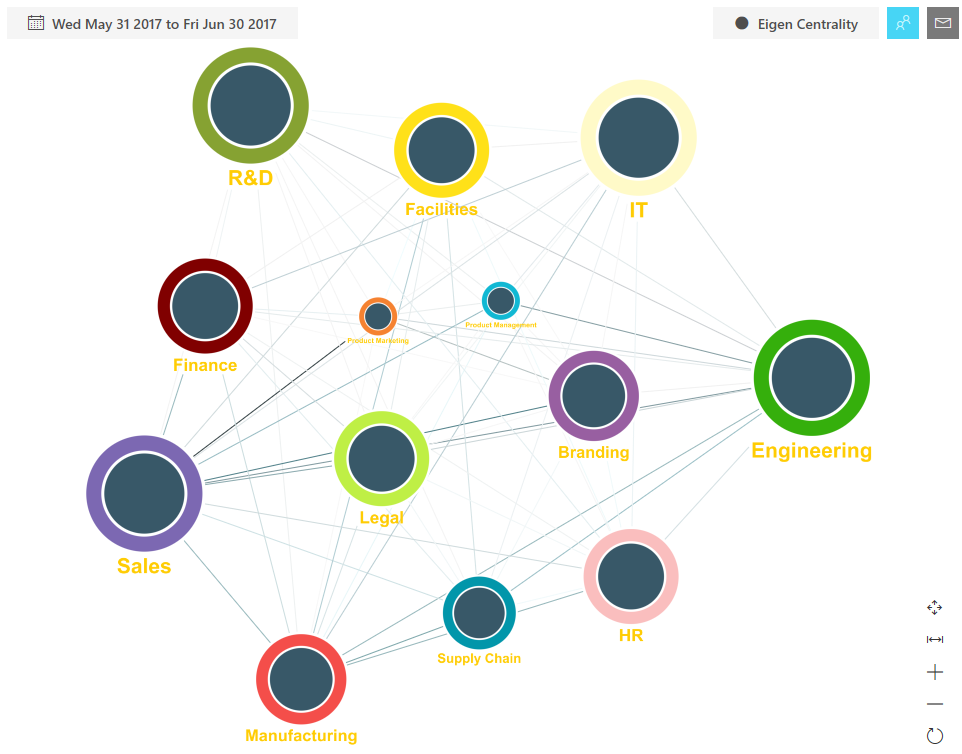
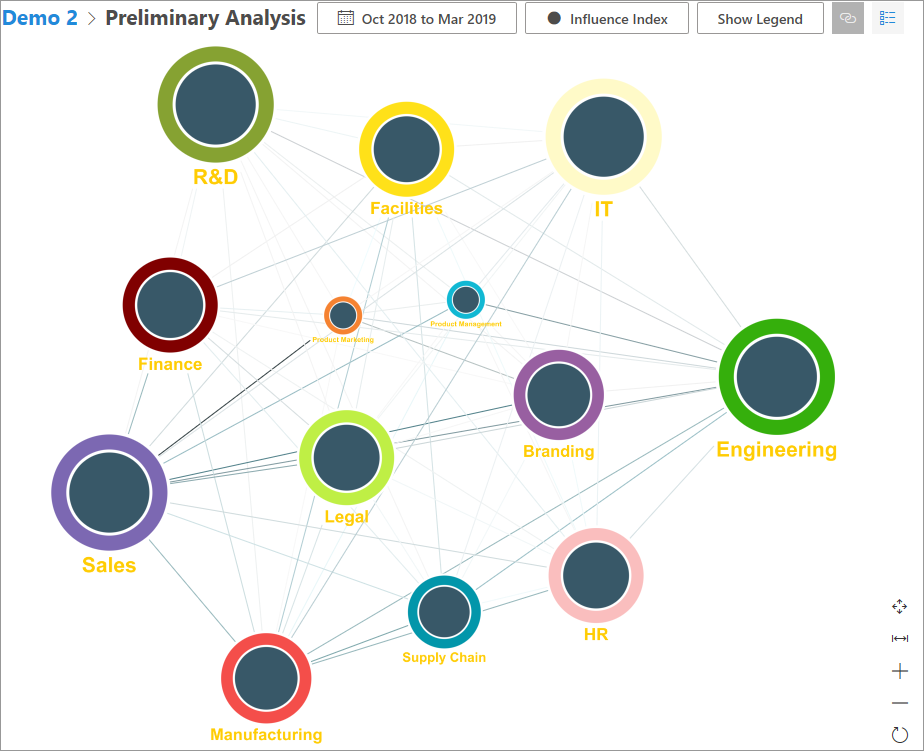
ONA AzT updates
per Glen's review edits

diff --git a/WorkplaceAnalytics/azure-templates/organization-network-analysis.md b/WorkplaceAnalytics/azure-templates/organization-network-analysis.md
@@ -41,7 +41,13 @@ To focus your analysis on specific subgroups or compare graphs from different ti
    * **Min # of interactions**: Select the minimum number of interactions between the selected groups or people.
 
 6. Optionally, in **Exclusions**, enter one or more terms separated by a comma to exclude meetings with these keywords in the meeting subject line from this analysis.
-7. Select **Submit**. Based on the data size, it might take anywhere from a few minutes up to a few hours to successfully create the dataset. <!-- Some metric options are unavailable until you do the following steps to **Define Analysis** for data subsets.-->
+7. Select **Submit**. Based on the data size, it might take anywhere from a few minutes up to a few hours to successfully create the dataset.
+8. After the analysis successfully loads, select the dataset from the list, and then select **Preliminary analysis**.
+9. In **Define Graph Settings**, either select filters for the graph, or select no filters to render a graph of all the data unfiltered, and then select **Render Graph**.
+
+   ![Add New Analysis](./images/ona-render-graph-2.png)
+   
+10. To save the current graph for future analysis, select **Save**, enter a name, and then select **Save Graph**.<!-- Some metric options are unavailable until you do the following steps to **Define Analysis** for data subsets.-->
  <!-- 
 ## To define a subset dataset and graph analysis
 
@@ -65,7 +71,7 @@ Analysis of a subset (child) dataset and graph enables you to compare or focus y
 
 1. After the analysis successfully loads, select the dataset from the list, and then at top right, select **Load Saved Graph**.
 2. Select the name of the graph analysis from the list. If no analysis has been created, the list will be empty.
-3. At top left of the graph, you can select a new start and end date for the time range to analyze, and then select **Apply** to update the graph view.
+3. At top of the graph, you can select a new start and end date for the time range to analyze, and then select **Apply** to update the graph view.
 
    ![ONA date range](./images/ona-date-range.png)
 
@@ -73,21 +79,21 @@ Analysis of a subset (child) dataset and graph enables you to compare or focus y
 
    Option |Name |Description
    ------------|--------------|------------
-   ![ONA no measure](./images/ona-no-measure.png)| No Measure | Change how the data is measured and shown in the graph based on the Node Measures you select.
+   ![ONA no measure](./images/ona-no-measure.png)| No Measure | Changes how the data is measured and shown in the graph based on the Node Measures you select.
    ![ONA legend](./images/ona-legend.png)| Show or Hide Legend  | Opens or closes the legend of assigned node colors for the HR attribute shown in the graph.
    ![ONA link color](./images/ona-link-color.png) | Link Color |Select a different color for the line links shown in the graph.
    ![ONA dataset parameters](./images/ona-dataset-parameters.png) | Dataset Parameters |Choose to view the network parameter details that you set for the selected dataset.
-   ![ONA network view](./images/ona-network-icons-1.png)| Network View  | Change how the graph shows the network, which you can view in either the **Force-directed**, **Lens**, or **Structural** layout.
+   ![ONA network view](./images/ona-network-icons-2.png)| Network View  | Changes how the graph shows the network, which you can view in either the **Force-directed** or **Organic** layout.
    ![ONA combined view](./images/ona-combined-view-icon.png) |Combined View | Change the graph view to Combined View, which prompts you to select an HR attribute meeting metric to display the nodes for , such as FunctionType.
-   ![OnA change color nodes](./images/ona-color-icon.png) | Change Node Colors | You can select to change the color of any of the nodes shown in the graph.
-   ![ONA change settings](./images/ona-settings.png) | Change Settings |Scales the thickness or color darkness of the link lines. You can also use this to turn node labels and tool tips on or off.
-   ![ONA filter](./images/ona-filter-icon.png) | Filter by HR attributes |Change the filters selected for the rendered graph.
+   ![OnA change color nodes](./images/ona-color-icon.png) | Changes Node Colors | You can select to change the color of any of the nodes shown in the graph.
+   ![ONA change settings](./images/ona-settings.png) | Changes Settings |Scales the thickness or color darkness of the link lines. You can also use this to turn node labels and tool tips on or off.
+   ![ONA filter](./images/ona-filter-icon.png) | Filter by HR attributes |Changes the filters that show in the rendered graph. This doesn't change the dataset filters or recalculate the dataset metrics. If you want to calculate new metrics for a subset, you must create a new dataset.
    ![ONA save graph](./images/ona-save.png) | Save Graph |Choose to save this graph as shown in the template to load and view later.
 
 ## To view a saved graph
 
-1. On the **Organizational Network Analysis** page, select the name of the analysis in the table.
-2. At the top right of the **Graph Analysis** page, select **Load Saved Graph**.
+1. On the **Organizational Network Analysis** page, select the name of the dataset in the table, and then select the name of the graph in the table.
+2. At the top right of **Define Graph Settings**, select **Load Saved Graph**.
 3. Select the name of the graph that you want to view. <!-- To view a subset dataset graph, select the **Refine Subset Categorization** icon next to the dataset name, and then select the subset's name to view it.--> If no analysis has been created, the subset list will be empty.<!--    ![Refine Subset Categorization icon](./images/ona-subset-categorization.png)-->
 4. Additional options on the analysis pages:
 
@@ -96,17 +102,17 @@ Analysis of a subset (child) dataset and graph enables you to compare or focus y
    * Select a table column heading, such as Name or Submitted, to sort by it.
    * Select the **Dataset Parameters** icon next to the name to view them for the analysis in that row.
    * Select the **Delete Analysis** (trashcan) icon to delete the analysis from the list.
-   * For subsets, select the **Download Dataset** icon, to download an .xlsx file with the person and group metrics in the saved subgroup graph analysis, which are based on the selected date range and other options. For example, Interconnectedness will have multiple values based on the attributes selected for the graph.
+   * Select the **Download Dataset** icon to download an .xlsx file with the person and group metrics in the saved subgroup graph analysis, which are based on the selected date range and other options. For example, Interconnectedness will have multiple values based on the attributes selected for the graph.
 
 ## Node Measures
 
-You can apply the following node sizing options to change how the data is measured and shown in the graph.
+You can apply the following node sizing options to change how the data is measured and shown in the graph. The following graphic shows the measures available for Combined View.
 
-![Organization Network Analysis measures](./images/ona-measures.png)
-<!-- For Subset Categorizations, you must select the applicable metrics when creating the analysis to see these measure options in the graph. ![Organization Network Analysis Subset measures](./images/ona-subset-measures.png)-->
+![Organization Network Analysis measures](./images/ona-combined-view-measures.png)
+<!-- For Subset Categorizations, you must select the applicable metrics when creating the analysis to see these measure options in the graph. ![Organization Network Analysis Subset measures](./images/ona-subset-measures.png)
 ### Betweenness
 
-Betweenness measures how much of a key connector a person or group (node) is in the network. This is calculated by finding the shortest paths between all nodes to all other nodes in the network and finding the number of times a node appears on the shortest path. The more times a node appears on the shortest path between other nodes, the more of a key connector that node is and therefore the higher the node’s betweenness score is.
+Betweenness measures how much of a key connector a person or group (node) is in the network. This is calculated by finding the shortest paths between all nodes to all other nodes in the network and finding the number of times a node appears on the shortest path. The more times a node appears on the shortest path between other nodes, the more of a key connector that node is and therefore the higher the node’s betweenness score is.-->
 
 ### Boundary Spanning
 
@@ -116,17 +122,13 @@ Betweenness measures how much of a key connector a person or group (node) is in 
 
 <!--  This option is only available in Subset Categorization analysis. -->Indicates potential control over the flow of information and points of failure or overload. High values can indicate gatekeepers, liaisons, or change agents. This role can be advantageous or stressful.
 
-### Closeness
-
-Closeness measures the closeness between nodes in a network, based on their ability to reach them. It then calculates each node’s shortest path to every other node, then assigns each node a score based on the sum of all the paths. Nodes with a high closeness value have a lower distance to all other nodes and therefore are efficient broadcasters of information.
-
 ### Degrees
 
 Degrees measures the highest number of links to other nodes within the network. Nodes with a high degree of links are those people or groups who have the best connections to others in the network. These people or groups can be key influencers or might just be strategically important for communication.
 
 ### Density
 
-Density measures the number of actual connections out of the number of possible connections within a network or subgroup, which is a table view. Higher density indicates higher levels of connectivity. Large groups tend to have small values since it’s much harder for everyone to connect with everyone else, so be careful comparing across groups. Dense groups indicate cohesion between members.
+This option is only available in the Network View. Density measures the number of actual connections out of the number of possible connections within a network or subgroup in a table view. Higher density indicates higher levels of connectivity. Large groups tend to have small values since it’s more difficult for everyone to connect with everyone else, so be cautious when comparing across groups. Dense groups indicate cohesion between members.
 
 As shown in the following graphic, the table depicts the density score within and across the respective groups, where:
 
@@ -134,32 +136,37 @@ As shown in the following graphic, the table depicts the density score within an
 
 ![Density table](./images/ona-density-table.png)
 
-### Eigen Centrality
+<!--### Eigen Centrality
 
 Eigen Centrality is a measure of influence that considers the number of links each person or group (node) has and the number of links their connections have, and so on throughout the network. The larger nodes represent the people or groups with high centrality and can be key influencers in their network.
 
 As shown in the following graphic, Engineering, R&D, and Sales are key influencers that connect all the other groups.
 
 ![Eigen Centrality](./images/ona-eigen.png)
-
+-->
 ### Influence Index
 
-<!--  This option is only available in Subset Categorization analysis. -->Indicates how much influence an individual has in the network. Influence occurs from providing information to people who also provide information to many others, and so on. High values suggest the central individual’s perspective will flow through the organization with efficiency.
+<!--  This option is only available in Subset Categorization analysis. -->Represents the number of links each person or group (node) has and the number of links their connections have, and so on throughout the network. The larger nodes represent the people or groups with high centrality and therefore, are considered key influencers in their network. Influence occurs from these influencers sharing information to their network, who then forward it to theirs, and so on. High values suggest the central person's or group’s perspective will flow through the organization with efficiency.
+
+As shown in the following graphic, Engineering, R&D, and Sales are key influencers that connect all the other groups.
+
+![Eigen Centrality](./images/ona-eigen.png)
 
 ### Interconnectedness
 
 This option is only available in Node View. Interconnectedness is a measure of how diverse a node’s connections are. The higher the interconnection for a node, the more that node’s connections come from other nodes. The nodes with high interconnection can be good ambassadors and help drive collaboration for the intersecting nodes.
-<!--  ### Network size
+
+### Network size
 
 This option is only available in Subset Categorization analysis. Indicates size of social load without adjusting for potential quality of connections.
--->
+
 ### Number of employees
 
 This option is only available in Combined View. The node size is based on the number of people in that particular group. The larger node sizes represent the nodes with the larger number of people in that network.
-
+-->
 ### Reach Index
 
-Represents ability to access or share information across the organization while going through minimal intermediaries. Closeness Centrality calculates the average distance between an individual and others in the network.
+Represents ability to access or share information across the organization while going through minimal intermediaries. Closeness Centrality calculates the average distance between a person or group and others in the network. Nodes with a high closeness value have a lower distance to all other nodes and therefore are efficient broadcasters of information.
 
 > [!Note] 
 > Weights are not factored into Reach Index computations.

diff --git a/WorkplaceAnalytics/MyAnalytics/Use/MyA-Dashboard/MyA-DB-Chats-and-calls.md b/WorkplaceAnalytics/MyAnalytics/Use/MyA-Dashboard/MyA-DB-Chats-and-calls.md
@@ -6,7 +6,6 @@ title: Chats and calls in MyAnalytics
 description: Teams and Skype for Business calls and instant messages in MyAnalytics
 author: paul9955
 ms.author: v-midehm
-ms.date: 03/15/2019
 ms.topic: article
 localization_priority: normal 
 ms.prod: mya
